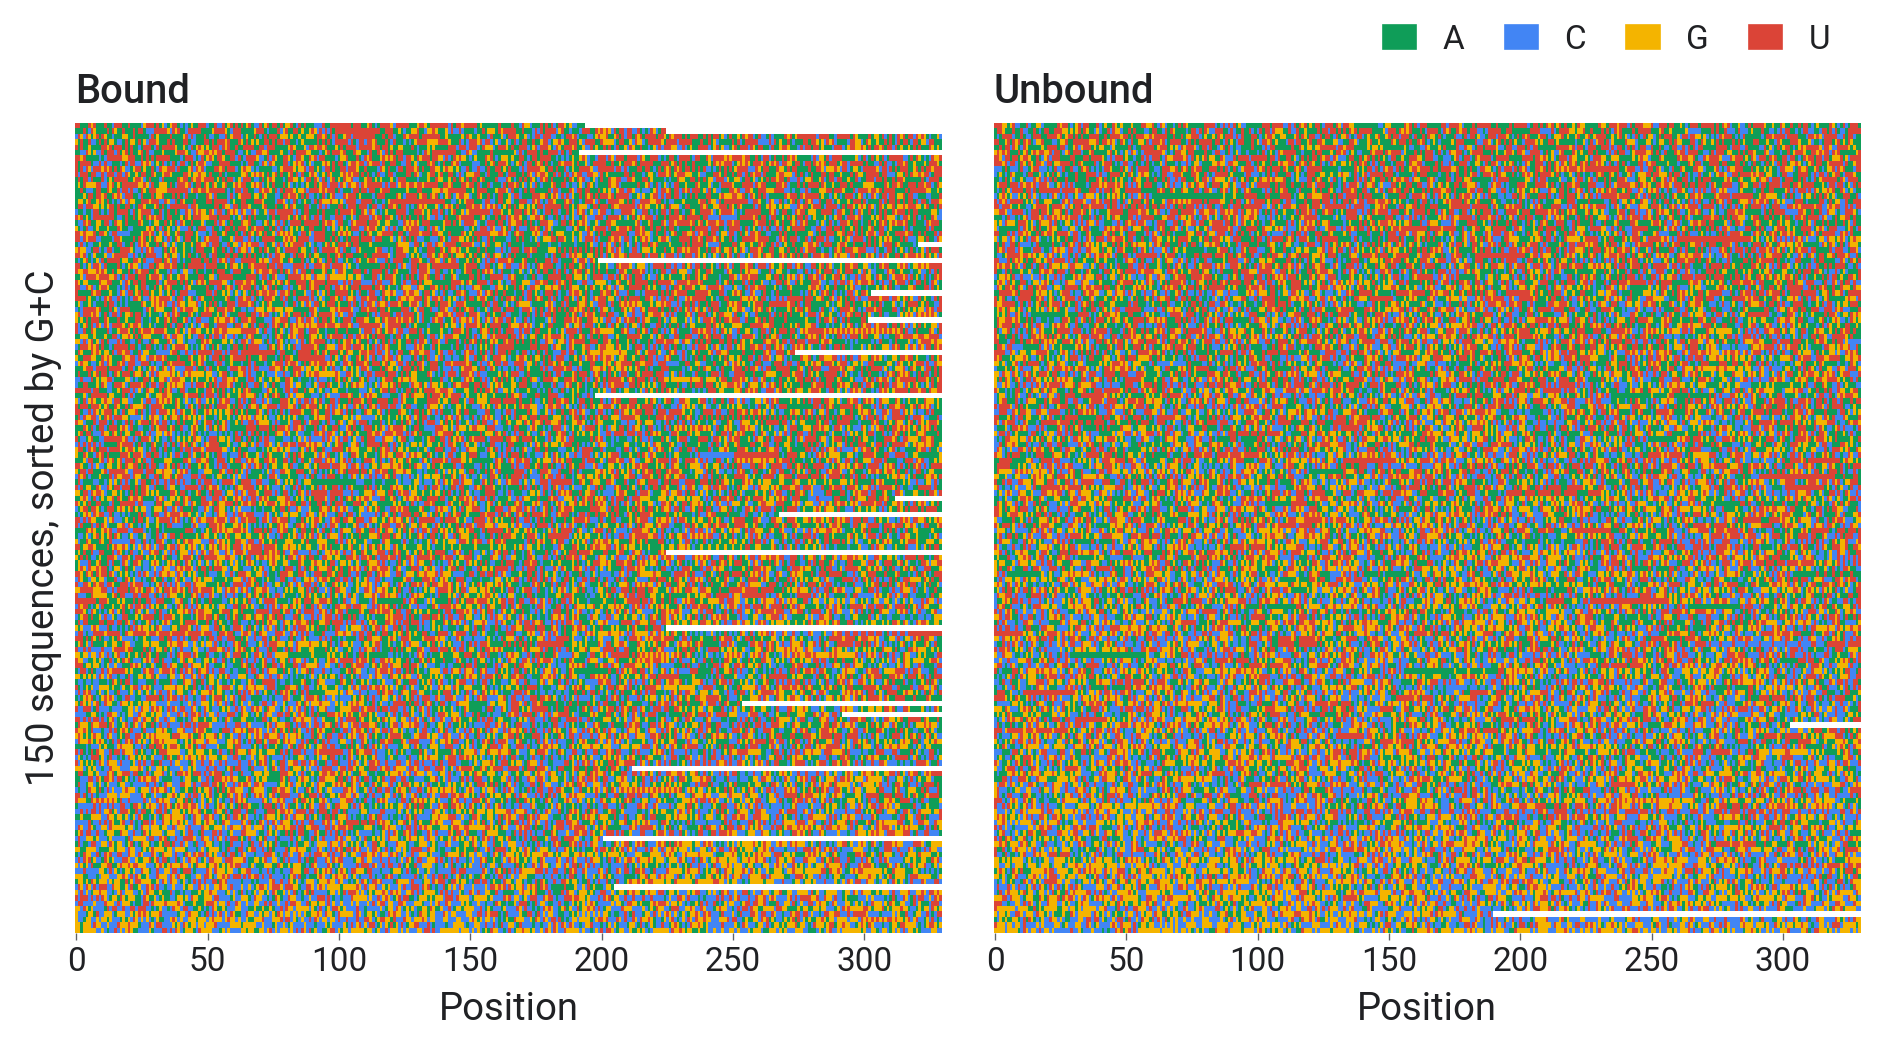
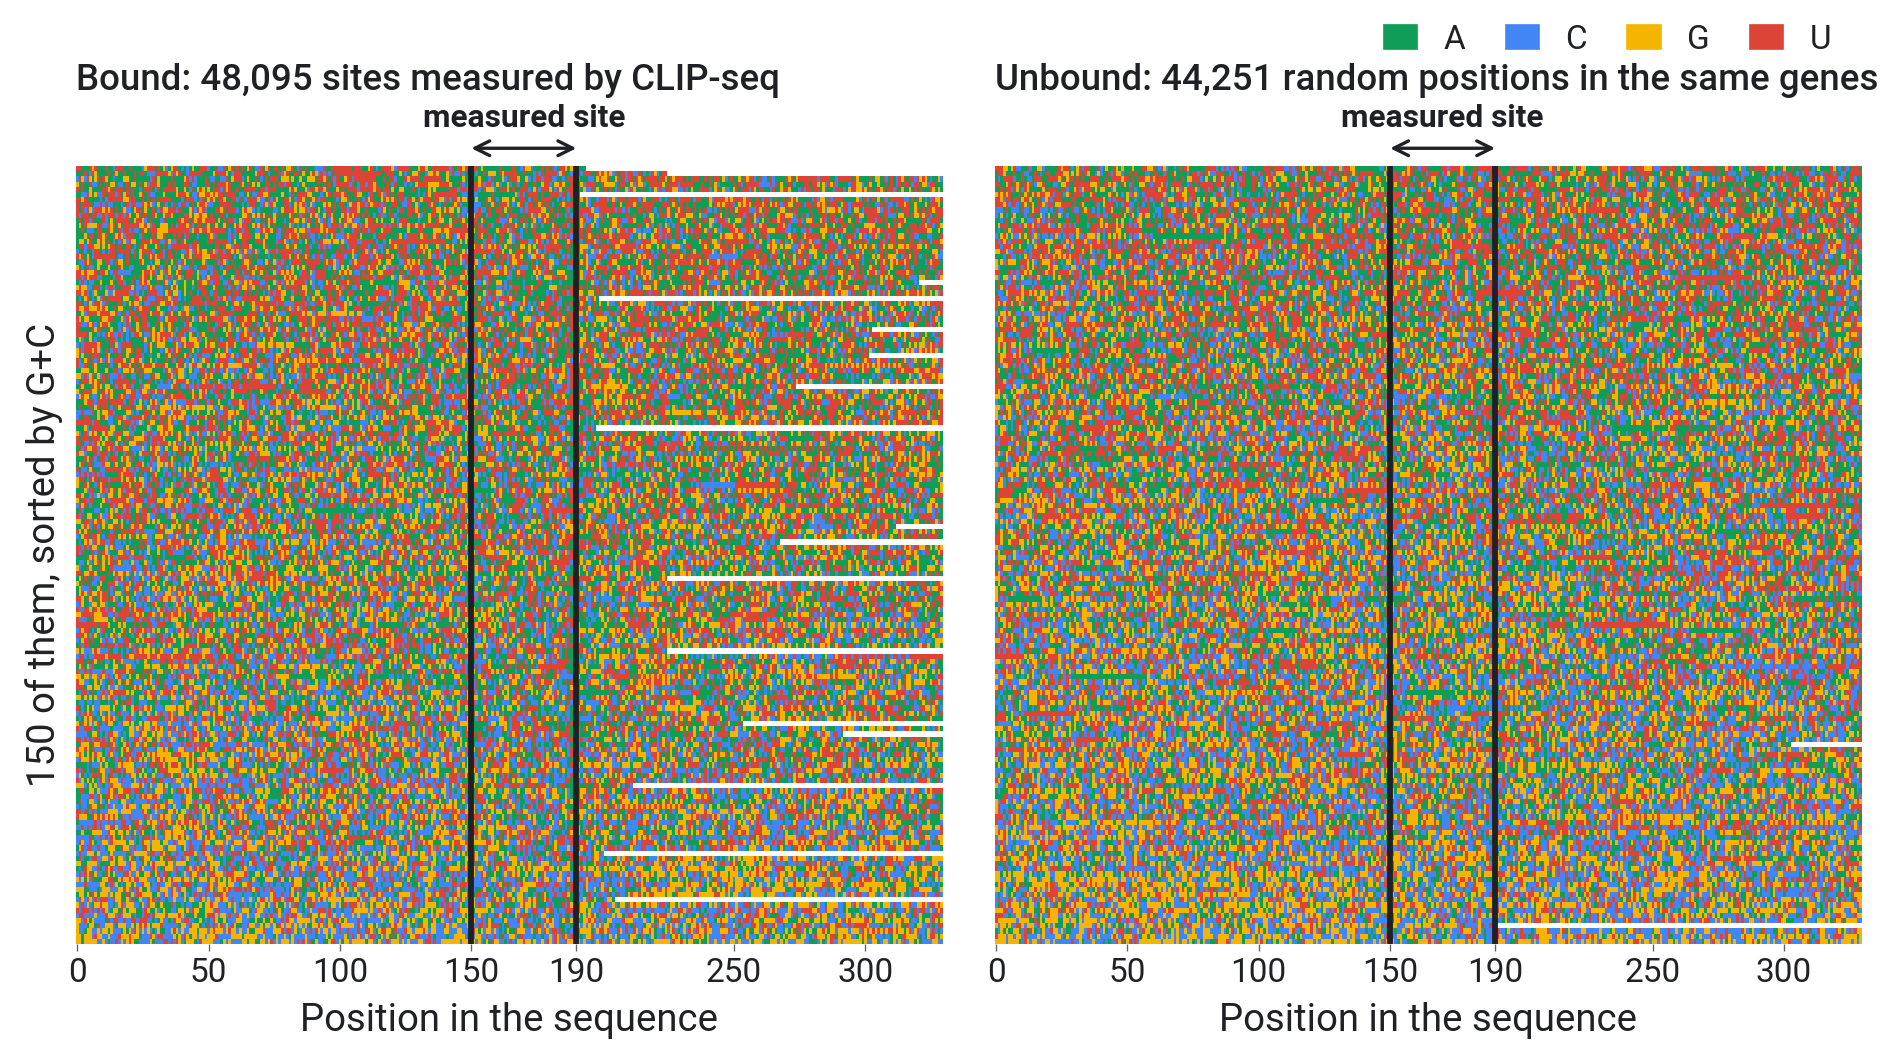
Agenda timeline; larger data figure

diff --git a/slides/01_cnn.html b/slides/01_cnn.html
@@ -217,58 +217,8 @@
 </section>
 <section id="agenda" class="slide level2">
 <h2>0.5 Agenda</h2>
-<table class="caption-top">
-<colgroup>
-<col style="width: 33%">
-<col style="width: 33%">
-<col style="width: 33%">
-</colgroup>
-<thead>
-<tr class="header">
-<th style="text-align: left;">Time</th>
-<th style="text-align: left;">Part</th>
-<th style="text-align: left;">Notebook</th>
-</tr>
-</thead>
-<tbody>
-<tr class="odd">
-<td style="text-align: left;">11:00</td>
-<td style="text-align: left;">1. Machine learning and CNNs</td>
-<td style="text-align: left;"></td>
-</tr>
-<tr class="even">
-<td style="text-align: left;">11:40</td>
-<td style="text-align: left;">Break</td>
-<td style="text-align: left;"></td>
-</tr>
-<tr class="odd">
-<td style="text-align: left;">11:50</td>
-<td style="text-align: left;">1. Machine learning and CNNs, continued</td>
-<td style="text-align: left;"><code>01_cnn</code></td>
-</tr>
-<tr class="even">
-<td style="text-align: left;">12:15</td>
-<td style="text-align: left;">2. DNA foundation models</td>
-<td style="text-align: left;"><code>02_foundation_models</code></td>
-</tr>
-<tr class="odd">
-<td style="text-align: left;">13:05</td>
-<td style="text-align: left;">Break</td>
-<td style="text-align: left;"></td>
-</tr>
-<tr class="even">
-<td style="text-align: left;">13:15</td>
-<td style="text-align: left;">3. Shortcuts, controls and fine-tuning</td>
-<td style="text-align: left;"><code>03_shortcuts_and_controls</code></td>
-</tr>
-<tr class="odd">
-<td style="text-align: left;">13:50</td>
-<td style="text-align: left;">Break, end at 14:00</td>
-<td style="text-align: left;"></td>
-</tr>
-</tbody>
-</table>
 
+<img data-src="assets/custom/agenda.png" class="quarto-figure quarto-figure-center r-stretch" style="width:100.0%">
 </section>
 <section id="the-task" class="title-slide slide level1 center" data-name="Task">
 <h1>1 The task</h1>
@@ -285,13 +235,9 @@
 </section>
 <section id="the-data" class="slide level2">
 <h2>1.2 The data</h2>
-<ul>
-<li><strong>Bound</strong>: 48,095 sites measured by CLIP-seq, an experiment that captures the RNA a protein binds. <strong>Unbound</strong>: 44,251 random positions in the same genes</li>
-<li>The 40-letter measured site sits at letters 150 to 190</li>
-</ul>
 <div class="quarto-figure quarto-figure-center">
 <figure>
-<p><img data-src="assets/custom/labels_raster.png" class="quarto-figure quarto-figure-center" height="538"></p>
+<p><img data-src="assets/custom/labels_raster.png" class="quarto-figure quarto-figure-center" height="735"></p>
 </figure>
 </div>
 
